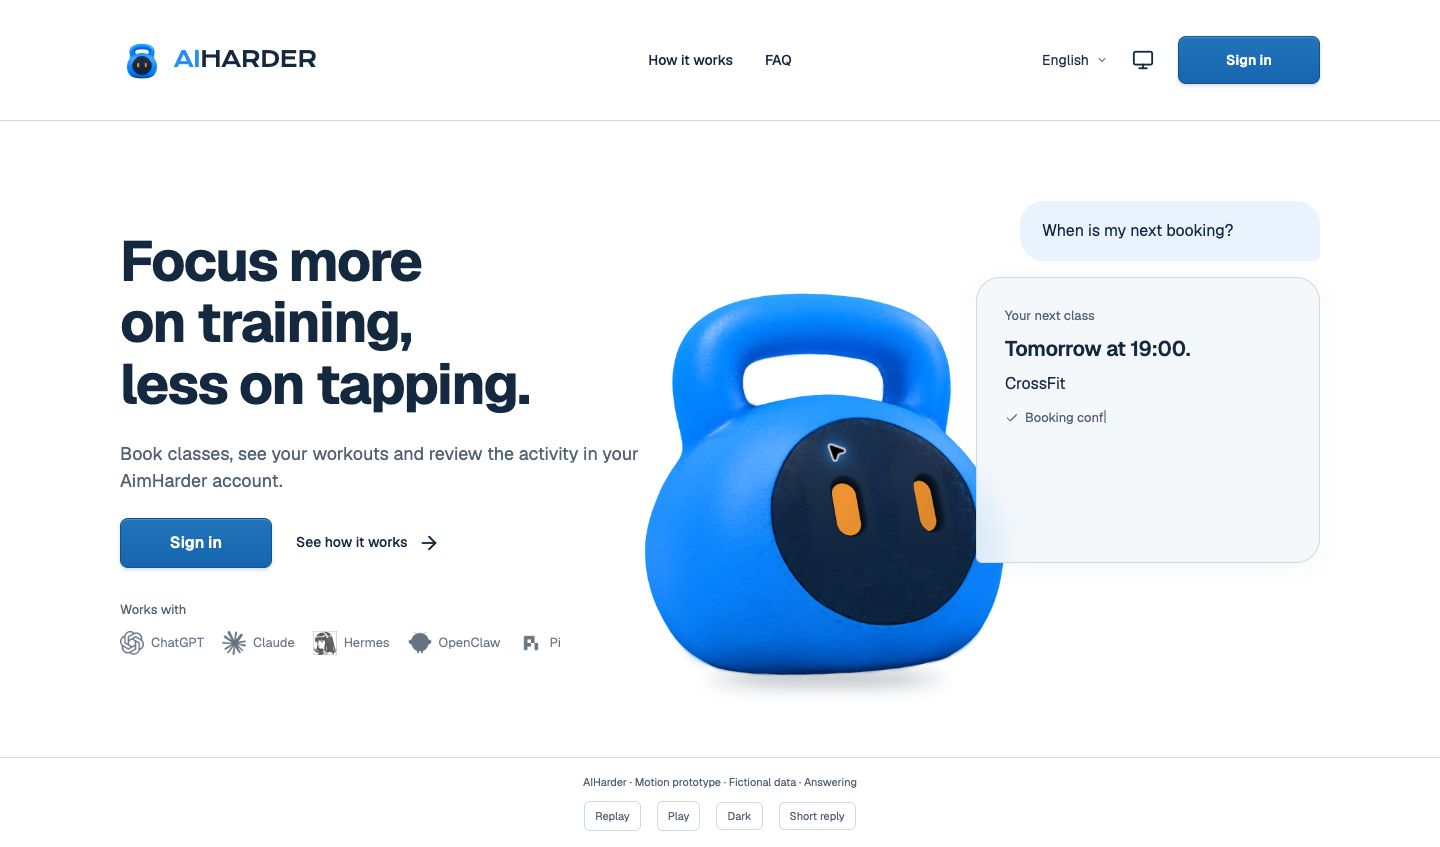
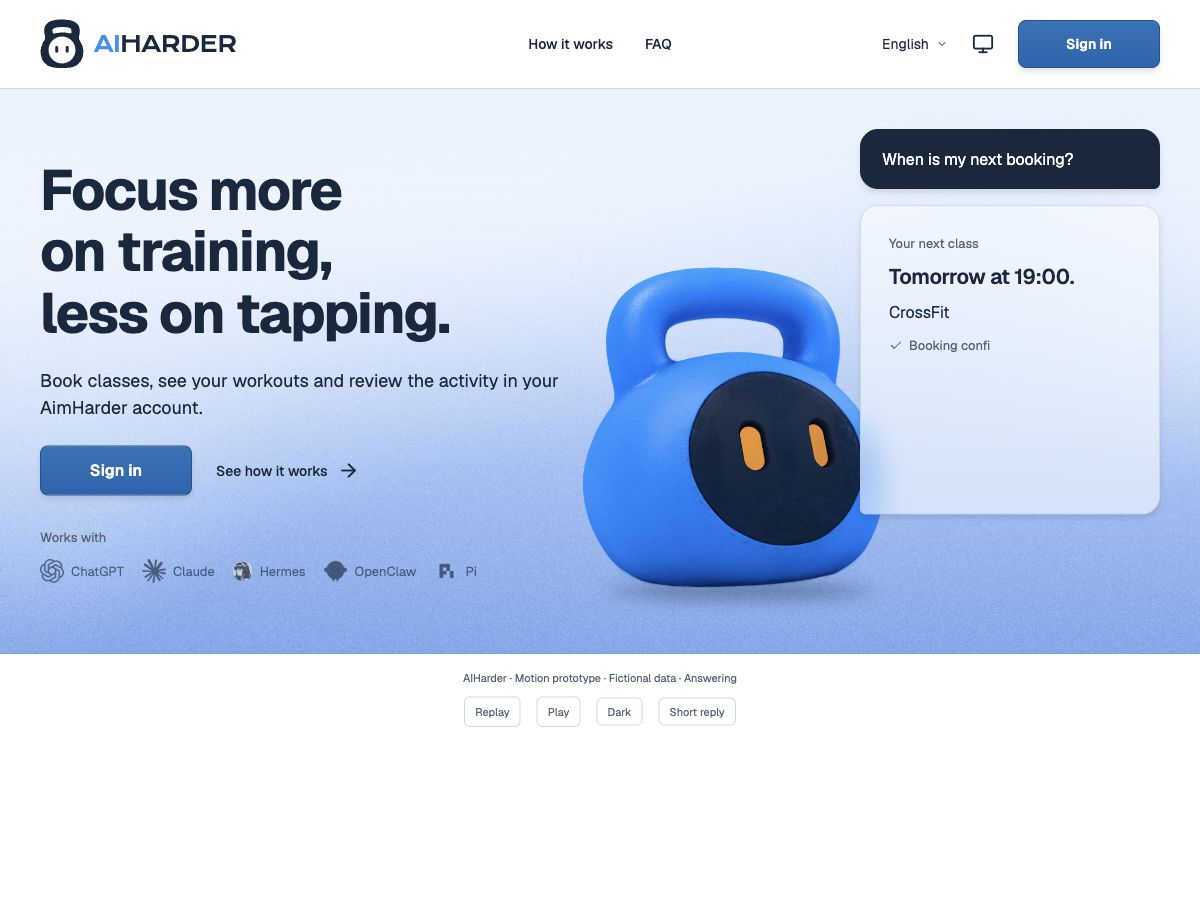
fix: remove editor caret from hero reply typing

diff --git a/design/home-study/hero-motion-prototype.html b/design/home-study/hero-motion-prototype.html
@@ -6,4 +6,4 @@
 @media(max-width:1320px){.kettle{left:-60px;top:126px;width:300px;height:344px}.kettle img{width:435.13px;height:435.13px;left:-68px;top:-57.79px}.answer{width:300px}.ground{left:-36px;top:460px;width:266px}.ground::after{left:34px;width:198px}}
 @media(max-width:1150px){.hero{grid-template-columns:46% 1fr;gap:40px}h1{font-size:50px}.brand{font-size:20px}.utilities{gap:16px}.nav{gap:24px}.question{width:270px}.answer{width:300px}.kettle{left:-70px}.apps{gap:12px}.app{font-size:12px;gap:5px}}
 @media(max-width:850px){.container{width:calc(100% - 40px)}.header-inner{grid-template-columns:1fr auto;min-height:80px}.nav{display:none}.utilities{gap:16px}.language{display:none}.hero{display:block;padding-top:28px}.pitch{max-width:532px}.scene{height:520px;margin:32px auto 0;max-width:596px}.kettle{left:0}.question{right:0}.answer{right:0}.apps{flex-wrap:wrap}h1{font-size:44px}.header-signin{min-width:100px;padding:12px 18px}.brand{font-size:17px}.brand img{width:35px;height:40px}}
[2 lines of base64/hex data omitted]

diff --git a/design/home-study/hero-motion-prototype.js b/design/home-study/hero-motion-prototype.js
@@ -86,7 +86,6 @@ function typeAnswer(time, complete = false) {
     const n = Math.max(0, Math.min(run.text.length, count-run.start));
     run.visible.textContent = run.text.slice(0, n).join('');
     run.remainder.textContent = run.text.slice(n).join('');
-    run.visible.classList.toggle('typing-caret', n > 0 && n < run.text.length);
   }
   stage.dataset.typed = String(count);
   stage.dataset.characters = String(totalCharacters);

diff --git a/design/home-study/graphic-hero-study.md b/design/home-study/graphic-hero-study.md
@@ -79,3 +79,9 @@ The final Standards and Spec reviews found no actionable issues. A later browser
 ## Surface refinement — 2026-11-01
 
 The later [Grainient/flat-mark study](hero-surface-study.md) is current for background, header symbol, vertical density and reply alpha. The timing/typewriter behavior above is retained. Earlier captures are checkpoints; current Light/Dark surface captures are linked in that study. Native pen synchronization remains outside this verified HTML revision.
+
+## Reply typing without editor caret — 2026-11-01
+
+The owner reported an unwanted editor-like line during reply typing. The line came from the `typing-caret::after` pseudo-element attached to partially revealed text runs. Removed both that decoration and its per-frame class toggle; also removed the positioning rule used only by the caret. Text reveal, preserved line footprint, shared animation clock, Pause/Replay and the complete reduced-motion answer remain unchanged. No native pen, API or architecture/ADR change is involved.
+
+Browser inspection at 2.7s confirmed 53/211 visible characters, zero caret elements and `none` for all text-run after pseudo-elements. Playback continued without console warnings/errors. The entry-module URL is versioned for this correction so cached earlier JavaScript does not keep toggling the removed class. [Typing capture](previews/hero-motion-typing-light.png) and checks were refreshed. JavaScript syntax and whitespace checks pass.
